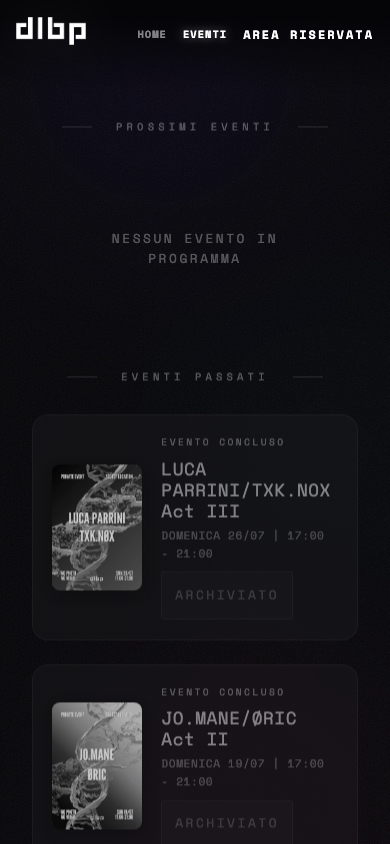
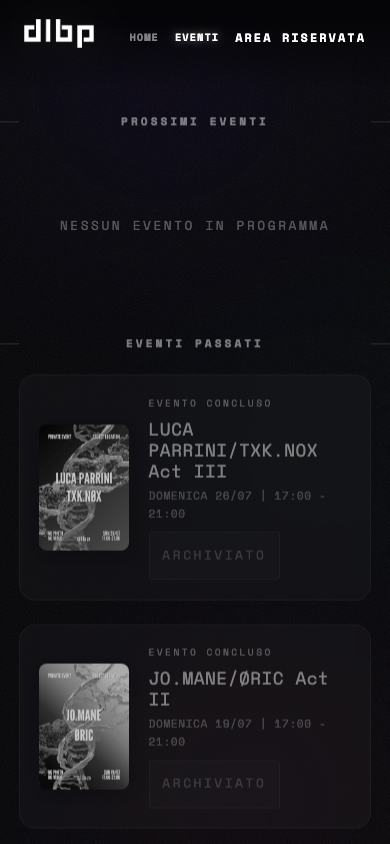
Feat(UI): Implement strict horizontal component design system (.page-container, .btn-secondary, .btn-danger, .section-label, .page-title) across all 6 pages

diff --git a/css/styles.css b/css/styles.css
@@ -2217,38 +2217,70 @@ input::placeholder {
 }
 
 /* ==========================================================================
-   MOBILE MEDIA QUERY OPTIMIZATIONS (≤480px)
+   STRICT HORIZONTAL COMPONENT DESIGN SYSTEM
    ========================================================================== */
 
-@media (max-width: 480px) {
-    body {
-        padding-left: 0.8rem;
-        padding-right: 0.8rem;
-    }
-    .main-nav {
-        padding: 0.8rem 1rem;
-    }
-    .nav-logo-text {
-        font-size: 0.85rem;
-    }
-    button, input[type="text"], input[type="email"], input[type="password"], select {
-        min-height: 44px;
-        font-size: 0.85rem;
-    }
-    .dashboard-grid {
-        grid-template-columns: 1fr 1fr;
-        gap: 0.75rem;
-    }
-    .kpi-box {
-        padding: 1rem 0.5rem;
-    }
-    .kpi-value {
-        font-size: 1.5rem;
-    }
-    .admin-container, .pr-container, .scanner-container {
-        padding-left: 0.2rem;
-        padding-right: 0.2rem;
+.page-container, .eventi-page {
+    position: relative;
+    z-index: 2;
+    margin: 0 auto;
+    width: 100%;
+    padding: 130px 2rem 4rem 2rem !important;
+    text-align: center;
+    box-sizing: border-box;
+}
+
+@media (max-width: 768px) {
+    .page-container, .eventi-page {
+        padding: 110px 1.2rem 3rem 1.2rem !important;
     }
 }
+
+.section-label {
+    font-family: var(--font-mono);
+    font-size: 0.7rem;
+    font-weight: 700;
+    letter-spacing: 3px;
+    color: var(--text-muted);
+    text-transform: uppercase;
+    margin-bottom: 1.5rem;
+    display: block;
+}
+
+.page-title {
+    font-family: var(--font-mono);
+    font-size: 1.4rem;
+    font-weight: 700;
+    letter-spacing: 3px;
+    color: var(--text-primary);
+    text-transform: uppercase;
+    margin-bottom: 2rem;
+}
+
+.btn-secondary {
+    border: 1px solid rgba(255, 255, 255, 0.15) !important;
+    color: rgba(255, 255, 255, 0.75) !important;
+    background: transparent !important;
+}
+
+.btn-secondary:hover {
+    border-color: rgba(255, 255, 255, 0.4) !important;
+    color: #ffffff !important;
+    transform: translateY(-2px);
+}
+
+.btn-danger {
+    border: 1px solid rgba(255, 50, 50, 0.4) !important;
+    color: rgba(255, 100, 100, 0.9) !important;
+    background: transparent !important;
+}
+
+.btn-danger:hover {
+    border-color: rgba(255, 50, 50, 0.7) !important;
+    color: #ffffff !important;
+    background: rgba(255, 50, 50, 0.15) !important;
+    transform: translateY(-2px);
+}
+
 
 

diff --git a/event.html b/event.html
@@ -55,7 +55,7 @@
         </div>
     </nav>
 
-    <main class="eventi-page gate-page">
+    <main id="app-main" class="eventi-page page-container event-container">
         <section class="event-section fade-in stagger-1">
             <div class="event-card-item" style="max-width: 500px; margin: 0 auto; opacity: 1; transform: none; display: flex; flex-direction: column; align-items: center; text-align: center;">
                 

diff --git a/eventi.html b/eventi.html
@@ -47,7 +47,7 @@
     </nav>
 
     <!-- EVENTS PAGE -->
-    <main class="eventi-page">
+    <main id="app-main" class="eventi-page page-container">
         <span class="section-label reveal">PROSSIMI EVENTI</span>
         <div id="events-grid" class="events-grid">
             <div class="loading-events">

diff --git a/pr.html b/pr.html
@@ -45,7 +45,7 @@
         </div>
     </nav>
     
-    <main id="app-main" class="eventi-page pr-container">
+    <main id="app-main" class="eventi-page page-container pr-container">
         <!-- Login Section -->
         <section id="login-section" class="login-card">
             <h2>ACCESSO PR</h2>

diff --git a/scanner.html b/scanner.html
@@ -46,7 +46,7 @@
         </div>
     </nav>
     
-    <main id="app-main" class="eventi-page">
+    <main id="app-main" class="eventi-page page-container scanner-container">
 
         <!-- Login Section -->
         <section id="login-section" class="login-card">

diff --git a/admin.html b/admin.html
@@ -47,7 +47,7 @@
         </div>
     </nav>
     
-    <main id="app-main" class="eventi-page">
+    <main id="app-main" class="eventi-page page-container admin-container">
 
         <!-- Login Section -->
         <section id="login-section" class="login-card">
